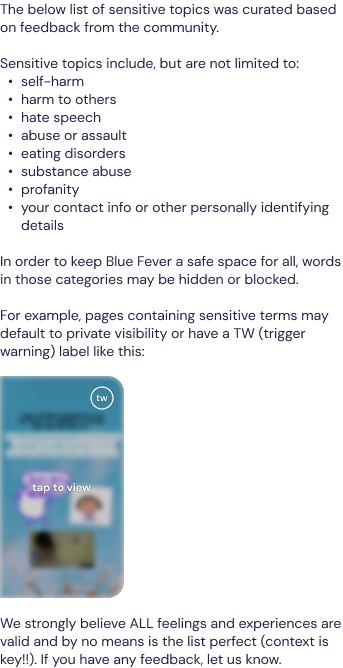
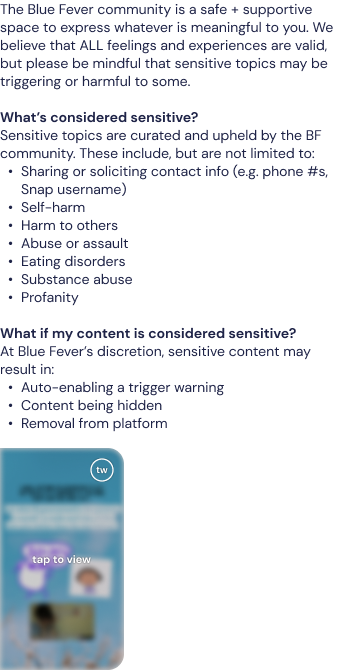
feat: add new image + cg bluefever link copy

Changed region(s): [[0.0, 0.0, 0.9913, 1.0]]

diff --git a/Photo Editor/Photo Editor/SensitiveContentViewController.swift b/Photo Editor/Photo Editor/SensitiveContentViewController.swift
@@ -14,11 +14,18 @@ public final class SensitiveContentViewController: UIViewController, UIGestureRe
     @IBOutlet weak var topLine: UIView!
     @IBOutlet weak var sendMessage: UILabel!
     
+    var learnMoreLinkLabel: UILabel!
+    
     public var photoEditorDelegate: PhotoEditorDelegate?
     
     let screenSize = UIScreen.main.bounds.size
     
     let fullView: CGFloat = 100 // remainder of screen height
+    let scrollViewBottomPadding: CGFloat = 32 + 68 // padding bottom for scrollview
+    let imageBottomPadding: CGFloat = 36 // padding bottom for image view
+    
+    let cgTitleText = "Where can I find BF’s full Community Guidelines?"
+    let learnMoreText = "Learn more on bluefever.com/community-guidelines."
     
     var bottomPadding: CGFloat {
         var topPadding:CGFloat? = 0
@@ -36,9 +43,7 @@ public final class SensitiveContentViewController: UIViewController, UIGestureRe
         
         self.automaticallyAdjustsScrollViewInsets = false
         scrollView.showsVerticalScrollIndicator = false
-          
-       
-        
+
         let underlineAttriString = NSAttributedString(string: "Send us a message",
                                                   attributes: [NSAttributedString.Key.underlineStyle: NSUnderlineStyle.single.rawValue])
         label.attributedText = underlineAttriString
@@ -47,13 +52,69 @@ public final class SensitiveContentViewController: UIViewController, UIGestureRe
         let imageView = UIImageView.init(frame: CGRect(x:16, y:16, width: scrollView.frame.width, height: scrollView.frame.height))
         imageView.image = image
         imageView.frame.size = image?.size ?? .zero
-        scrollView.contentSize = CGSize(width: image!.size.width, height: image!.size.height + 32)
+        scrollView.contentSize = CGSize(width: image!.size.width, height: image!.size.height + scrollViewBottomPadding)
         scrollView.addSubview(imageView)
+        
         scrollView.delegate = self
+        
+        let vStack = UIStackView(frame: CGRect(x: 16, y: imageView.frame.height + imageBottomPadding, width: imageView.frame.width, height: 40))
+        vStack.axis = .vertical
+        
+        let boldFont = UIFont(name: "DMSans-Bold", size: 14)
+        let normalFont = UIFont(name: "DMSans-Regular", size: 14)
+        
+        let titleLabel = UILabel()
+        titleLabel.textColor = UIColor.init(hexString: "#1E2347")
+        titleLabel.textAlignment = .left
+        let boldFontAttribute = [NSAttributedString.Key.font:boldFont!]
+        let boldString = NSMutableAttributedString(string: cgTitleText, attributes:boldFontAttribute)
+        titleLabel.attributedText = boldString
+        
+        let learnMoreLabel = UILabel()
+        learnMoreLabel.textColor = UIColor.black
+        learnMoreLabel.textAlignment = .left
+       
+        let nonBoldFontAttribute = [NSAttributedString.Key.font:normalFont!]
+        let underlineAttriLinkString = NSMutableAttributedString(string: learnMoreText, attributes: nonBoldFontAttribute)
+        let range1 = (learnMoreText as NSString).range(of: "bluefever.com/community-guidelines.")
+        underlineAttriLinkString.addAttribute(NSAttributedString.Key.underlineStyle, value: NSUnderlineStyle.single.rawValue, range: range1)
+        underlineAttriLinkString.addAttribute(NSAttributedString.Key.foregroundColor, value: UIColor.init(hexString: "#4150BE"), range: range1)
+        
+        learnMoreLabel.isUserInteractionEnabled = true
+        learnMoreLabel.addGestureRecognizer(UITapGestureRecognizer(target:self, action: #selector(tapLabel(gesture:))))
+        learnMoreLabel.attributedText = underlineAttriLinkString
+        
+        vStack.addArrangedSubview(titleLabel)
+        vStack.addArrangedSubview(learnMoreLabel)
+        
+        learnMoreLinkLabel = learnMoreLabel
+        
+        
+        learnMoreLabel.translatesAutoresizingMaskIntoConstraints = false
+        titleLabel.translatesAutoresizingMaskIntoConstraints = false
+    
+        
+        scrollView.addSubview(vStack)
         
         let tap = UITapGestureRecognizer(target: self, action: #selector(self.sendMessageOnClick))
         sendMessage.isUserInteractionEnabled = true
         sendMessage.addGestureRecognizer(tap)
+    }
+    
+   
+    @objc
+    func tapLabel(gesture: UITapGestureRecognizer) {
+        if gesture.didTapAttributedTextInLabel(label: self.learnMoreLinkLabel, targetText: "bluefever.com/community-guidelines.") {
+            guard let url = URL(string: "https://www.bluefever.com/community-guidelines") else {
+              return
+            }
+
+            if #available(iOS 10.0, *) {
+                UIApplication.shared.open(url, options: [:], completionHandler: nil)
+            } else {
+                UIApplication.shared.openURL(url)
+            }
+        }
     }
     
     @objc
